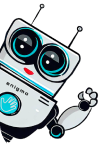
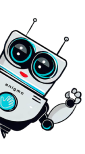
Actualizacion de elementos, frontend info page version desktop

diff --git a/info_page.html b/info_page.html
@@ -38,6 +38,7 @@
             <div class="hello_block">
                 
                 <picture class="enigmo_hello">
+                    <source srcset="elementos/enigmo_info_hello-PCversion.png" media="(min-width: 1440px)">
                     <source srcset="elementos/enigmo_info_hello-TABLETversion.png" media="(min-width: 768px)">
                     <source srcset="elementos/enigmo_info_hello-MOBILEversion.png" media="(max-width: 768px)">
                     <img class="enigmo_hello" src="elementos/enigmo_info_hello-PCversion.png" alt="Hello enigmo"> 
@@ -56,44 +57,60 @@
             </div>
 
             <div class="how_block">
-                <h2>¿Cómo se usa el encriptador de texto?</h2>
-                <p>Para usar  enigmo encriptador de texto ingrese el texto que desea transformar en la casilla indicada, luego puede darle a enigmo la orden de <em>encriptar</em> o <em>desencriptar</em>, haciendo clic en los botones que lo indican. Posteriormente podra hacer copia de su texto transformado.</p>
+                <div class="text_box">
+                    <h2>¿Cómo se usa el encriptador de texto?</h2>
+                    <p>Para usar  enigmo encriptador de texto ingrese el texto que desea transformar en la casilla indicada, luego puede darle a enigmo la orden de <em>encriptar</em> o <em>desencriptar</em>, haciendo clic en los botones que lo indican. Posteriormente podra hacer copia de su texto transformado.</p>
+                </div>
             </div>
 
         </section>
-
-        <section class="what_block">
-            <h2>¿Qué significa encriptar o desencriptar el texto?</h2>
-            <p>Si le indica a enigmo <em>encriptar</em> su texto, este lo tranformará en un texto encriptado, bajo las claves: e=enter, i=imes, a=ai, o=ober, u=ufat. En cambio, si indica <em>desencriptar</em> su texto <i>(este debe haber sido previamente encriptado por enigmo)</i>, se realizará el mismo proceso a la inversa, dando como resultado un texto descifrado.</p>
-            <p>Utilice enigmo para cifrar y decifrar mensajes en forma segura.</p>
-        </section>
         
-       
+        <section class="how_what_sect">
+
+            <div class="how_block_2">
+                <div class="text_box">
+                    <h2>¿Cómo se usa el encriptador de texto?</h2>
+                    <p>Para usar  enigmo encriptador de texto ingrese el texto que desea transformar en la casilla indicada, luego puede darle a enigmo la orden de <em>encriptar</em> o <em>desencriptar</em>, haciendo clic en los botones que lo indican. Posteriormente podra hacer copia de su texto transformado.</p>
+                </div>
+            </div>
+
+            <section class="what_block">
+                <div class="text_box">
+                    <h2>¿Qué significa encriptar o desencriptar el texto?</h2>
+                    <p>Si le indica a enigmo <em>encriptar</em> su texto, este lo tranformará en un texto encriptado, bajo las claves: e=enter, i=imes, a=ai, o=ober, u=ufat. En cambio, si indica <em>desencriptar</em> su texto <i>(este debe haber sido previamente encriptado por enigmo)</i>, se realizará el mismo proceso a la inversa, dando como resultado un texto descifrado.</p>
+                    <p>Utilice enigmo para cifrar y decifrar mensajes en forma segura.</p>
+                </div>
+            </section>
+        
+        </section>
 
         <section class="credits_section">
 
-            <div class="project_block">
-                <h2>SOBRE ESTE SITIO WEB:</h2>
-                <p class="paragraph2">Este proyecto es parte del primer desafío del programa de Oracle Next Education, y tiene como objetivo poner en práctica los conocimientos adquiridos durante la formación de Principiante en Programación, impartida por Alura Latam. </p>
-                <p class="paragraph2">Esta aplicación web ha sido desarrollada por <b>Cristian Herrera</b> , y puede encontrar todo a cerca de su desarrollo en su <a href="https://github.com/crisarhp/Challenge_Encriptador_G5.git" target="_blank" rel="noopener noreferrer">repositorio de GitHub</a>.</p>
-            </div>
+            <div class="text_box">
+                <div class="project_block">
+                    <h2>SOBRE ESTE SITIO WEB:</h2>
+                    <p class="paragraph2">Este proyecto es parte del primer desafío del programa de Oracle Next Education, y tiene como objetivo poner en práctica los conocimientos adquiridos durante la formación de Principiante en Programación, impartida por Alura Latam. </p>
+                    <p class="paragraph2">Esta aplicación web ha sido desarrollada por <b>Cristian Herrera</b> , y puede encontrar todo a cerca de su desarrollo en su <a href="https://github.com/crisarhp/Challenge_Encriptador_G5.git" target="_blank" rel="noopener noreferrer">repositorio de GitHub</a>.</p>
+                </div>
 
-            <div class="contact_block">
-                <br>
-                <p>CONTACTO:</p> 
-                <p>
-                GitHub: 
-                <a 
-                    href="https://github.com/crisarhp" target="_blank" rel="noopener noreferrer">crisarhp
-                </a><br>
-                Email: 
-                <a 
-                    href="mailto:crisarhp@outlook.com" target="_blank" rel="noopener noreferrer">crisarhp@outlook.com
-                </a><br>
-                LinkedIn: 
-                <a
-                    href="https://www.linkedin.com/in/cristianherrerap/" target="_blank" rel="noopener noreferrer">cristianherrerap</a><br>   
-                </p>
+                <div class="contact_block">
+                    <br>
+                    <p>CONTACTO:</p> 
+                    <p>
+                    GitHub: 
+                    <a 
+                        href="https://github.com/crisarhp" target="_blank" rel="noopener noreferrer">crisarhp
+                    </a><br>
+                    Email: 
+                    <a 
+                        href="mailto:crisarhp@outlook.com" target="_blank" rel="noopener noreferrer">crisarhp@outlook.com
+                    </a><br>
+                    LinkedIn: 
+                    <a
+                        href="https://www.linkedin.com/in/cristianherrerap/" target="_blank" rel="noopener noreferrer">cristianherrerap</a><br>   
+                    </p>
+                </div>
+
             </div>
 
             <picture class="AluraOracle_logo"> 

diff --git a/style-info_page.css b/style-info_page.css
@@ -29,11 +29,14 @@ a {
     font-weight: 700;
     text-decoration: none;
     color: #acf9ff;
+    -webkit-tap-highlight-color: rgba(0,0,0,0);
 }
 
-
-
 /*_______________GENERAL STYLE_______________*/
+
+.how_block_2{
+    display: none;
+}
 
 /*-------------Header-------------*/
 
@@ -88,12 +91,26 @@ main {
 
 @media screen and (max-width: 768px) {
 
+    h2, p, a{
+        font-size: 16px;
+    }
+
     /*-------------Header-------------*/
 
     header{
-        margin-top: 5%;
+        position: absolute;
+        display: inline-block;
+        top: 0px;
+        left: 0px;
         margin-bottom: 5%;
     }
+
+        .enigmo-logo{
+            margin-top: 10%;
+            position: absolute;
+            left: calc(50% - 205px/2);
+            top: calc(6% - 97px/2);
+        }
     
    /*--------------Main--------------*/
 
@@ -102,11 +119,15 @@ main {
         flex-direction: column;
     }
 
+    .back_link{
+        z-index: 100;
+    }
+
     .hello_block{
         display: flex;
         justify-content: space-between;
         align-items: center;
-        margin: 0% 5% 3% 5%;
+        margin: 3% 5% 3% 5%;
     }
  
     .how_block{
@@ -128,6 +149,7 @@ main {
 
 @media screen and (min-width: 768px) {
 
+
     /*--------------Main--------------*/
  
     .home_section{
@@ -142,16 +164,120 @@ main {
         }
         
         .how_block{
+            display: flex;
+            justify-content: center;
+            align-items: center;
             margin-left: 2%;
-        }
+            
+            margin-left: 2%;
+        } 
+        
+            .how_block .text_box{
+                text-align: justify;
+                display: flex;
+                width: 80%;
+                flex-direction: column;
+            }
  
         .what_block{
+            display: flex;
+            justify-content: center;
+            align-items: center;
             margin: 0% 2% 1.5% 2%;
         }
-    
+
+            .what_block .text_box{
+                text-align: justify;
+                display: flex;
+                width: 80%;
+                flex-direction: column;
+            }
+        
         .credits_section{
+            display: flex;
+            flex-direction: column;
+            justify-content: center;
+            align-items: center;
             margin: 0% 2% 1.5% 2%;
         }
- 
+
+            .credits_section .text_box{
+                text-align: center;
+                display: flex;
+                width: 50%;
+                flex-direction: column;
+            }
+       
  }/*______________________________________*/
  
+
+
+ /*____________DESKTOP VERSION____________*/
+
+@media screen and (min-width: 1440px) {
+
+    /*--------------Main--------------*/
+   
+    main{
+        display: flex;
+    }
+
+        .how_block{
+            display: none;
+        }
+
+    .hello_block{
+        display: inline-flex;
+        justify-content: center;
+        align-items: center;
+        flex-direction: column-reverse;
+        width: 100%;
+        
+    }
+   
+    .how_what_sect{
+        display: flex;
+        flex-direction: column;
+        margin: 0% 0% 1.5% 0%;
+    }
+
+        .how_block_2{
+            display: flex;
+            justify-content: center;
+            align-items: center;
+            background: #E0FDFF;
+            border-radius: 30px;
+            padding: 30px;
+            height: 50% ;
+        } 
+        
+            .how_block_2 .text_box{
+                text-align: justify;
+                display: flex;
+                width: 80%;
+                flex-direction: column;
+            }
+
+
+
+        .what_block{
+            margin: 0px;
+            margin-top: 5%;
+            height: 90% ;
+        }
+        
+    .credits_section{
+        display: flex;
+        flex-direction: column;
+        justify-content: center;
+        align-items: center;
+        margin: 0% 2% 1.5% 2%;
+    }
+    
+        .credits_section .text_box{
+            text-align: center;
+            display: flex;
+            width: 80%;
+            flex-direction: column;
+        }
+}/*______________________________________*/

diff --git a/style.css b/style.css
@@ -20,6 +20,10 @@ body{
     padding: 0px;
 }
 
+a{
+    -webkit-tap-highlight-color: rgba(0,0,0,0);
+}
+
 /*_______________GENERAL STYLE_______________*/
 
 textarea{
@@ -329,7 +333,7 @@ footer{
             height: 50px;
         }   
 
-            .encriptar_button:hover{
+            .encriptar_button:active{
                 background: #00ADB7;
                 box-shadow: inset 0px 4px 4px rgba(0, 0, 0, 0.25);
                 font-weight: bold;
@@ -338,7 +342,7 @@ footer{
             }
 
 
-            .desencriptar_button:hover{
+            .desencriptar_button:active{
                 background: #9200D7;
                 box-shadow: inset 0px 4px 4px rgba(0, 0, 0, 0.25);
                 font-weight: bold;
@@ -366,7 +370,7 @@ footer{
             color: black;
         }
 
-            .copiar_button:hover{
+            .copiar_button:active{
                 background: #FAFAFA;
                 box-shadow: inset 0px 4px 4px rgba(0, 0, 0, 0.25);
                 border-radius: 35px;
@@ -375,7 +379,7 @@ footer{
                 font-weight: bold;
             }
 
-            .info_icon_svg:hover{
+            .info_icon_svg:active{
                 width: 180px;
                 height: 180px;
                 transition: 2s all;
